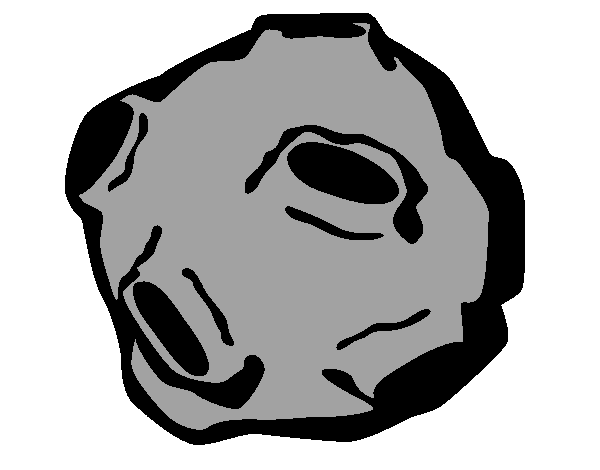
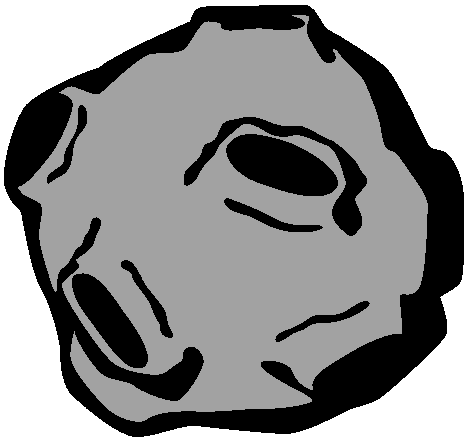
imagens ajustadas, colidem ajustado

diff --git a/jogo_foguete/jogo_testes.py b/jogo_foguete/jogo_testes.py
@@ -4,6 +4,7 @@ import unittest
 class Test(unittest.TestCase):
 
     def test_colidem(self):
+
         self.assertEqual(colidem(Personagem(200, 400, 0, 0, 4), Personagem(210, 410, 0, 0, 1)), True)
         self.assertEqual(colidem(Personagem(200, 400, 0, 0, 4), Personagem(210, 410, 0, 0, 3)), False)
         self.assertEqual(colidem(Personagem(200, LIMITE_BAIXO, 0, 0, 4), Personagem(210, LIMITE_BAIXO, 0, 0, 1)), True)
@@ -21,6 +22,7 @@ class Test(unittest.TestCase):
         self.assertEqual(ganhou(Personagem(310, 80, 0, 0, 4), L_PERSONAGEM_INICIAL), False)
 
     def test_mover_jogo(self):
+
         self.assertEqual(mover_jogo(Jogo(FOGUETE_INICIAL, L_PERSONAGEM_INICIAL, 0, False, True)),
                          Jogo(FOGUETE_INICIAL, L_PERSONAGEM_INICIAL, 0, False, True))
 
@@ -38,7 +40,7 @@ class Test(unittest.TestCase):
                               mover_personagens(L_PERSONAGEM_INICIAL), 0, False, False))
 
     def test_trata_tecla_jogo(self):
-    #     self.assertEqual(trata_tecla_jogo(JOGO_MEIO, pg.K_RETURN), cria_jogo_inicial())
+
         self.assertEqual(trata_tecla_jogo(JOGO_MEIO, TECLA_DIREITA), Jogo(trata_tecla(JOGO_MEIO.foguete, TECLA_DIREITA),
                                                                                       JOGO_MEIO.personagens, JOGO_MEIO.booster,
                                                                                       JOGO_MEIO.game_over, JOGO_MEIO.win))
@@ -56,6 +58,7 @@ class Test(unittest.TestCase):
                                                                             JOGO_GAME_OVER.game_over, JOGO_GAME_OVER.win))
 
     def test_trata_solta_tecla_jogo(self):
+
         self.assertEqual(trata_solta_tecla_jogo(JOGO_GAME_OVER, TECLA_CIMA), Jogo(Personagem(JOGO_GAME_OVER.foguete.x, JOGO_GAME_OVER.foguete.y,
                                                                                              JOGO_GAME_OVER.foguete.dx, DY,
                                                                                              JOGO_GAME_OVER.foguete.tipo),

diff --git a/jogo_foguete/jogo.py b/jogo_foguete/jogo.py
@@ -24,7 +24,7 @@ TAMANHO_BOOST = 30
 PONTOS_BOOST= 10
 FONTE_BOOST= "monospace"
 
-METADE_L_FOGUETE = largura_imagem(IMG_FOGUETE) // 2
+METADE_L_FOGUETE = largura_imagem(IMG_ASTEROIDE) // 2
 METADE_H_FOGUETE = altura_imagem(IMG_FOGUETE) // 2
 METADE_L_PS = largura_imagem(IMG_AVIAO) // 2
 METADE_H_PS = altura_imagem(IMG_AVIAO) // 2
@@ -107,10 +107,10 @@ se os personagens nao colidirem com o foguete retorna TRUE senao retorna FALSE
 '''
 
 def colidem(f, ps):
-    cima_foguete = f.y - METADE_H_FOGUETE
-    baixo_foguete = f.y + METADE_H_FOGUETE
-    direita_foguete = f.x + METADE_L_FOGUETE
-    esquerda_foguete = f.x - METADE_L_FOGUETE
+    cima_foguete = f.y - METADE_H_FOGUETE // 1.5
+    baixo_foguete = f.y + METADE_H_FOGUETE // 1.5
+    direita_foguete = f.x + METADE_L_FOGUETE // 1.5
+    esquerda_foguete = f.x - METADE_L_FOGUETE // 1.5
 
     cima_ps = ps.y - METADE_H_PS
     baixo_ps = ps.y + METADE_H_PS
@@ -235,11 +235,11 @@ desenha_boost: Int -> Imagem
 '''
 def desenha_boost(b):
     if b > 30:
-        texto_booster_maximo = texto("Boost: 30", Fonte(FONTE_BOOST, TAMANHO_BOOST), Cor(COR_BOOST))
+        texto_booster_maximo = texto("Boost: 30/30", Fonte(FONTE_BOOST, TAMANHO_BOOST), Cor(COR_BOOST))
         colocar_imagem(texto_booster_maximo, tela, X_BOOST, Y_BOOST)
 
     elif b <= 30:
-        texto_booster = texto("Boost: " + str(b), Fonte(FONTE_BOOST, TAMANHO_BOOST), Cor(COR_BOOST))
+        texto_booster = texto("Boost: " + str(b) + "/30", Fonte(FONTE_BOOST, TAMANHO_BOOST), Cor(COR_BOOST))
         colocar_imagem(texto_booster, tela, X_BOOST, Y_BOOST)
 
 

diff --git a/jogo_foguete/personagens.py b/jogo_foguete/personagens.py
@@ -16,7 +16,7 @@ FREQUENCIA_PERSONAGENS = 30
 
  # IMAGEM AVIAO
 IMG_AVIAO = carregar_imagem("imagens/aviao.png")
-IMG_AVIAO = definir_dimensoes(IMG_AVIAO, 100, 100)
+IMG_AVIAO = definir_dimensoes(IMG_AVIAO, 100, 80)
 IMG_AVIAO_DIREITA = espelhar(IMG_AVIAO)
 IMG_AVIAO_ESQUERDA = IMG_AVIAO
 
@@ -24,7 +24,7 @@ AVIAO = 2
 
 #IMAGEM ASTEROIDE
 IMG_ASTEROIDE = carregar_imagem("imagens/asteroide.png")
-IMG_ASTEROIDE = definir_dimensoes(IMG_ASTEROIDE, 100, 100)
+IMG_ASTEROIDE = definir_dimensoes(IMG_ASTEROIDE, 80, 80)
 
 ASTEROIDE = 1
 

diff --git a/jogo_foguete/foguete.py b/jogo_foguete/foguete.py
@@ -14,7 +14,7 @@ tela = criar_tela_base(LARGURA, ALTURA)
 
 FREQUENCIA_FOGUETE = 30
 IMG_FOGUETE = carregar_imagem("imagens/foguete.png")
-IMG_FOGUETE = definir_dimensoes(IMG_FOGUETE, 60, 100)
+IMG_FOGUETE = definir_dimensoes(IMG_FOGUETE, 40, 100)
 
 FOGUETE = 4
 
